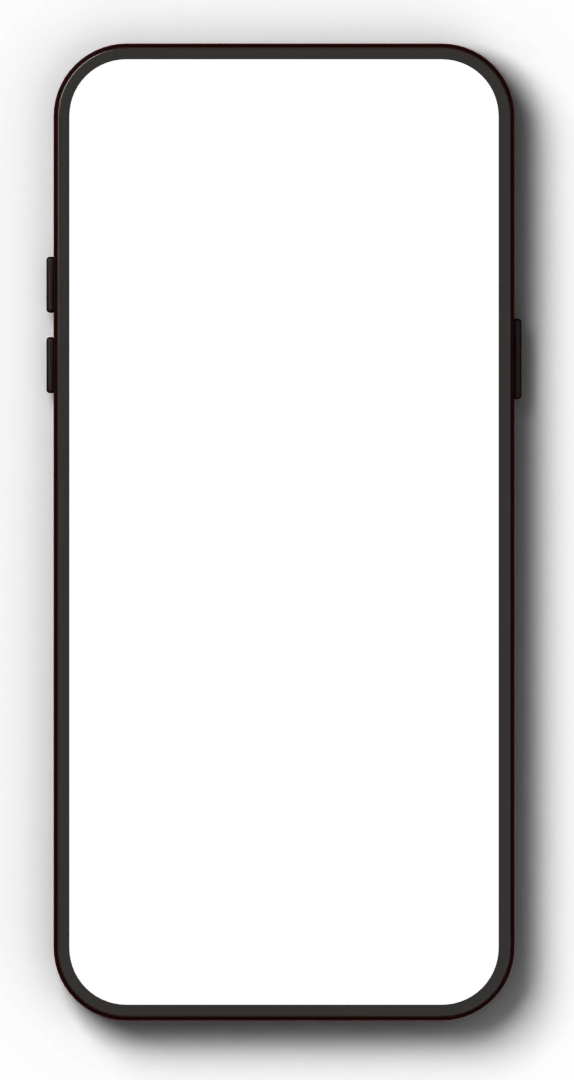
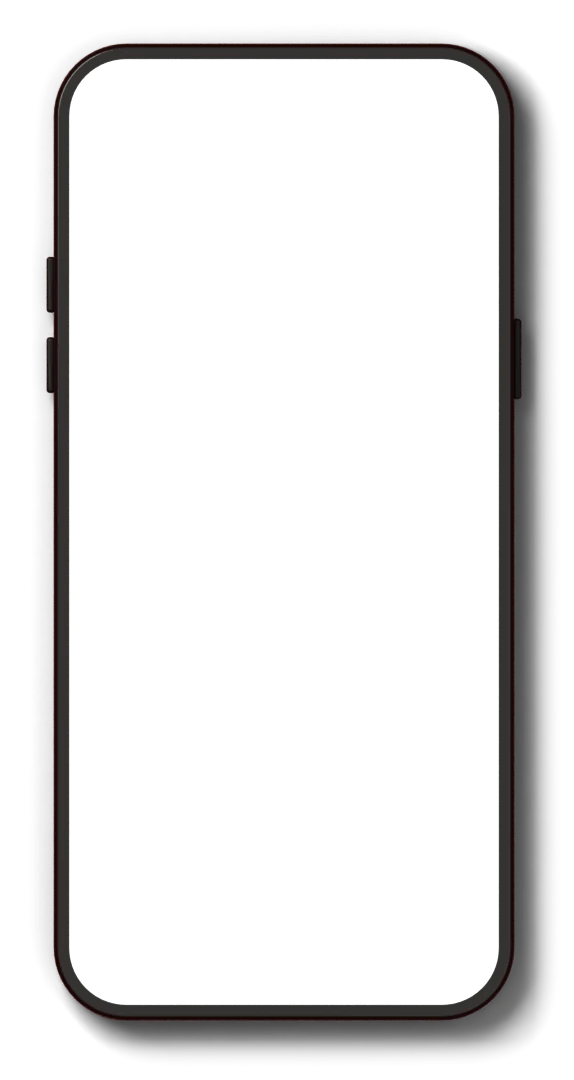
Correctifs vitrine : avis en cartes d'origine avec panneau, bento pleine largeur, téléphones
- Avis : retour à la forme d'origine (cartes), le clic ouvre le panneau
- Bento : même largeur que la section sociale
- Téléphones : voile sombre retiré du rendu, liens centrés, inclinaison conservée une fois la vidéo lancée

Claude-Session: https://claude.ai/code/session_01Jst9bS7aF5p8VwYDfZBosw

Changed region(s): [[0.1777, 0.0611, 0.9774, 1.0], [0.2369, 0.0, 0.77, 0.0611], [0.0296, 0.7639, 0.0889, 0.8556]]

diff --git a/src/styles.css b/src/styles.css
@@ -1566,7 +1566,7 @@ body.menu-open .site-header.fab-header,
 .ig-phone:nth-child(2) .ig-card__play{left:70%;top:30%}.ig-phone:nth-child(3) .ig-card__play{left:30%;top:42%}.ig-phone:nth-child(4) .ig-card__play{top:24%}
 .ig-phone.is-playing .ig-card__cover{padding:0;background:#fff}
 .ig-phone iframe{width:326px;height:calc(100% / var(--ig-s,1));max-height:none;transform:scale(var(--ig-s,1));transform-origin:0 0}
-.ig-phone .ig-card__link{display:block;width:var(--bw);margin-top:-2%;text-align:center;font-size:12px;color:var(--paper);opacity:.6}
+.ig-phone .ig-card__link{display:block;align-self:stretch;width:auto;margin:-2% 0 0;text-align:center;font-size:12px;color:var(--paper);opacity:.6}
 @media(hover:hover){.ig-phone:not(.is-playing):hover{rotate:0deg;translate:0 -6px}}
 .reveal-enabled .ig-stage .ig-phone{opacity:0;scale:1.06}
 .reveal-enabled .ig-stage.is-revealed .ig-phone{opacity:1;scale:1;transition:opacity .3s ease-out calc(var(--i,0) * 80ms + .2s),scale .5s cubic-bezier(.23,1,.32,1) calc(var(--i,0) * 80ms + .2s),rotate .25s cubic-bezier(.23,1,.32,1),translate .25s cubic-bezier(.23,1,.32,1)}
@@ -1603,19 +1603,13 @@ body.page-work .video-showcase h2{font-family:var(--serif);font-weight:500;lette
 .focus-text__frame b:nth-child(4){bottom:0;right:0;border-left:0;border-top:0}
 
 /* --- Avis : liste qui s'ouvre en panneau --- */
-.morph-list{list-style:none;margin:0;padding:0;border-top:1px solid rgba(240,235,226,.16)}
-.morph-row{width:100%;display:grid;grid-template-columns:56px minmax(130px,.5fr) minmax(120px,.45fr) minmax(0,1.6fr) auto;align-items:center;gap:clamp(14px,2vw,34px);padding:18px 14px;border:0;border-bottom:1px solid rgba(240,235,226,.16);background:transparent;color:inherit;font:inherit;text-align:left;cursor:pointer;transition:background .2s ease}
-.morph-row:hover,.morph-row:focus-visible{background:rgba(240,235,226,.07)}
-.morph-row__thumb,.morph-panel__media{display:block;overflow:hidden;background:var(--da-deep)}
-.morph-row__thumb{width:56px;height:56px;border-radius:14px}
-.morph-row__thumb img,.morph-panel__media img{display:block;width:100%;height:100%;object-fit:cover}
-.morph-row__thumb.is-blank,.morph-panel__media.is-blank{display:grid;place-items:center;font-family:var(--serif);color:var(--paper);background:radial-gradient(circle at 62% 34%,#ffbd78 0,#f0782c 14%,#c5300f 32%,#5a1107 60%,#190504 86%)}
-.morph-row__thumb.is-blank{font-size:26px}
-.morph-row strong{font:500 clamp(22px,2vw,30px)/1 var(--serif);letter-spacing:-.02em}
-.morph-row__role{font:600 11px/1.3 var(--ui);letter-spacing:.08em;text-transform:uppercase;opacity:.6}
-.morph-row__quote{overflow:hidden;white-space:nowrap;text-overflow:ellipsis;font-size:15px;opacity:.74}
-.morph-row i{padding:9px 14px;border:1px solid rgba(240,235,226,.3);border-radius:999px;font:600 11px/1 var(--ui);font-style:normal;letter-spacing:.08em;text-transform:uppercase;transition:background .2s ease,color .2s ease}
-.morph-row:hover i{background:var(--paper);color:var(--ink)}
+.v16-testimonial-bento article{position:relative}
+.morph-hit{position:absolute;inset:0;z-index:1;border:0;border-radius:inherit;background:transparent;cursor:pointer}
+.morph-hit:focus-visible{outline:2px solid var(--ember-soft);outline-offset:3px}
+@media(hover:hover) and (pointer:fine){.v16-testimonial-bento:focus-within article:focus-within{opacity:1;filter:none;transform:translateY(-4px) scale(1.006);border-color:rgba(233,119,54,.27)}}
+.morph-panel__media{display:block;overflow:hidden;background:var(--da-deep)}
+.morph-panel__media img{display:block;width:100%;height:100%;object-fit:cover}
+.morph-panel__media.is-blank{display:grid;place-items:center;font-family:var(--serif);color:var(--paper);background:radial-gradient(circle at 62% 34%,#ffbd78 0,#f0782c 14%,#c5300f 32%,#5a1107 60%,#190504 86%)}
 .morph-panel{width:min(980px,calc(100vw - 28px));max-width:none;max-height:calc(100svh - 28px);margin:auto;padding:0;border:0;border-radius:28px;background:var(--paper);color:var(--ink);overflow:hidden;box-shadow:0 40px 120px rgba(0,0,0,.5)}
 .morph-panel::backdrop{background:rgba(8,7,6,.66);backdrop-filter:blur(6px);-webkit-backdrop-filter:blur(6px);animation:morphBackdrop .3s ease both}
 .morph-panel.is-closing::backdrop{animation:morphBackdrop .25s ease reverse both}
@@ -1631,9 +1625,6 @@ body.page-work .video-showcase h2{font-family:var(--serif);font-weight:500;lette
 .morph-panel__close{position:absolute;top:16px;right:16px;width:42px;height:42px;display:grid;place-items:center;border:1px solid rgba(8,7,6,.2);border-radius:50%;background:rgba(240,235,226,.86);color:var(--ink);font-size:22px;line-height:1;cursor:pointer}
 .morph-panel__close:hover{background:var(--ink);color:var(--paper)}
 @media(max-width:760px){
-  .morph-row{grid-template-columns:48px minmax(0,1fr) auto;grid-template-areas:"t n a" "t r a" "q q q";row-gap:6px;padding:16px 4px}
-  .morph-row__thumb{grid-area:t;width:48px;height:48px}.morph-row strong{grid-area:n}.morph-row__role{grid-area:r}.morph-row i{grid-area:a}
-  .morph-row__quote{grid-area:q;white-space:normal;display:-webkit-box;-webkit-line-clamp:2;-webkit-box-orient:vertical;margin-top:6px}
   .morph-panel{border-radius:22px}
   .morph-panel__inner{grid-template-columns:1fr;min-height:0}
   .morph-panel__media{aspect-ratio:16/9}
@@ -1641,8 +1632,8 @@ body.page-work .video-showcase h2{font-family:var(--serif);font-weight:500;lette
 }
 
 /* --- Projets en bento (Work) --- */
-.bento-section{padding:0 var(--page) clamp(36px,5vw,80px)}
-.bento{display:grid;grid-template-columns:repeat(12,minmax(0,1fr));grid-template-rows:repeat(2,minmax(0,1fr));gap:10px;aspect-ratio:16/8.4;max-width:1560px;margin-inline:auto}
+.bento-section{padding:0 8px clamp(28px,4vw,64px)}
+.bento{display:grid;grid-template-columns:repeat(12,minmax(0,1fr));grid-template-rows:repeat(2,minmax(0,1fr));gap:10px;aspect-ratio:16/8}
 .bento__tile{position:relative;min-width:0;min-height:0;overflow:hidden;border-radius:22px;background:var(--da-deep);color:var(--paper);isolation:isolate}
 .bento__tile[data-slot="0"]{grid-area:1/1/3/7}
 .bento__tile[data-slot="1"]{grid-area:1/7/2/11}
@@ -1681,7 +1672,7 @@ body.page-work .video-showcase h2{font-family:var(--serif);font-weight:500;lette
 /* --- Téléphones inclinables (vidéos social media) --- */
 .ig-phone__device{transform:perspective(900px) rotateX(var(--rx,0deg)) rotateY(var(--ry,0deg)) scale(var(--ts,1));transition:transform .6s cubic-bezier(.23,1,.32,1);will-change:transform}
 .ig-phone__device.is-tilting{transition:transform .1s linear}
-.ig-phone__device::before{content:"";position:absolute;z-index:-1;inset:10% 14% 5%;border-radius:20%;background:rgba(14,1,0,.6);filter:blur(24px);transform:translate(var(--shx,0px),var(--shy,16px));transition:transform .6s cubic-bezier(.23,1,.32,1)}
+.ig-phone__device::before{content:"";position:absolute;z-index:-1;inset:14% 18% 7%;border-radius:20%;background:rgba(14,1,0,.34);filter:blur(22px);transform:translate(var(--shx,0px),var(--shy,16px));transition:transform .6s cubic-bezier(.23,1,.32,1)}
 .ig-phone__device.is-tilting::before{transition:transform .1s linear}
 .ig-phone__glare{position:absolute;z-index:3;left:var(--bx);top:var(--by);width:var(--bw);height:var(--bh);border-radius:15% / 7%;background:radial-gradient(circle at var(--gx,50%) var(--gy,0%),rgba(255,232,206,.42),rgba(255,232,206,0) 58%);mix-blend-mode:screen;opacity:0;transition:opacity .3s ease;pointer-events:none}
 .ig-phone__device.is-tilting .ig-phone__glare{opacity:1}

diff --git a/src/app.js b/src/app.js
@@ -550,27 +550,31 @@ $$('[data-bento]').forEach(bento=>{
   });
 });
 
-// Téléphones : inclinaison 3D sous le curseur, reflet et ombre qui suivent.
-if(finePointer&&!reduced) $$('[data-tilt]').forEach(device=>{
-  const MAX=11, card=device.closest('[data-instagram-post]');
-  const reset=()=>{
+// Téléphones : inclinaison 3D, reflet et ombre qui suivent le curseur. On écoute toute la section :
+// le téléphone situé dans la colonne du curseur s'incline, même une fois sa vidéo lancée
+// (le lecteur Instagram garde le pointeur pour lui, mais le pourtour continue de faire bouger l'appareil).
+if(finePointer&&!reduced) $$('.ig-stage').forEach(stage=>{
+  const MAX=11, devices=$$('[data-tilt]',stage);
+  const reset=device=>{
     device.classList.remove('is-tilting');
     for(const name of ['--rx','--ry','--ts','--shx','--shy','--gx','--gy']) device.style.removeProperty(name);
   };
-  device.addEventListener('pointermove',event=>{
-    if(card?.classList.contains('is-playing')){reset();return;}
-    const r=device.getBoundingClientRect();
-    const x=clamp((event.clientX-r.left)/r.width,0,1)-.5, y=clamp((event.clientY-r.top)/r.height,0,1)-.5;
-    device.classList.add('is-tilting');
-    device.style.setProperty('--ry',`${(x*2*MAX).toFixed(2)}deg`);
-    device.style.setProperty('--rx',`${(-y*2*MAX).toFixed(2)}deg`);
-    device.style.setProperty('--ts','1.05');
-    device.style.setProperty('--shx',`${(-x*34).toFixed(1)}px`);
-    device.style.setProperty('--shy',`${(16-y*30).toFixed(1)}px`);
-    device.style.setProperty('--gx',`${((x+.5)*100).toFixed(1)}%`);
-    device.style.setProperty('--gy',`${((y+.5)*100).toFixed(1)}%`);
+  stage.addEventListener('pointermove',event=>{
+    devices.forEach(device=>{
+      const r=device.getBoundingClientRect();
+      if(event.clientX<r.left||event.clientX>r.right){reset(device);return;}
+      const x=clamp((event.clientX-r.left)/r.width,0,1)-.5, y=clamp((event.clientY-r.top)/r.height,0,1)-.5;
+      device.classList.add('is-tilting');
+      device.style.setProperty('--ry',`${(x*2*MAX).toFixed(2)}deg`);
+      device.style.setProperty('--rx',`${(-y*2*MAX).toFixed(2)}deg`);
+      device.style.setProperty('--ts','1.05');
+      device.style.setProperty('--shx',`${(-x*34).toFixed(1)}px`);
+      device.style.setProperty('--shy',`${(16-y*30).toFixed(1)}px`);
+      device.style.setProperty('--gx',`${((x+.5)*100).toFixed(1)}%`);
+      device.style.setProperty('--gy',`${((y+.5)*100).toFixed(1)}%`);
+    });
   });
-  device.addEventListener('pointerleave',reset);
+  stage.addEventListener('pointerleave',()=>devices.forEach(reset));
 });
 
 // Dégradé vivant : des points de couleur dérivent lentement ; le curseur remue les couleurs.
